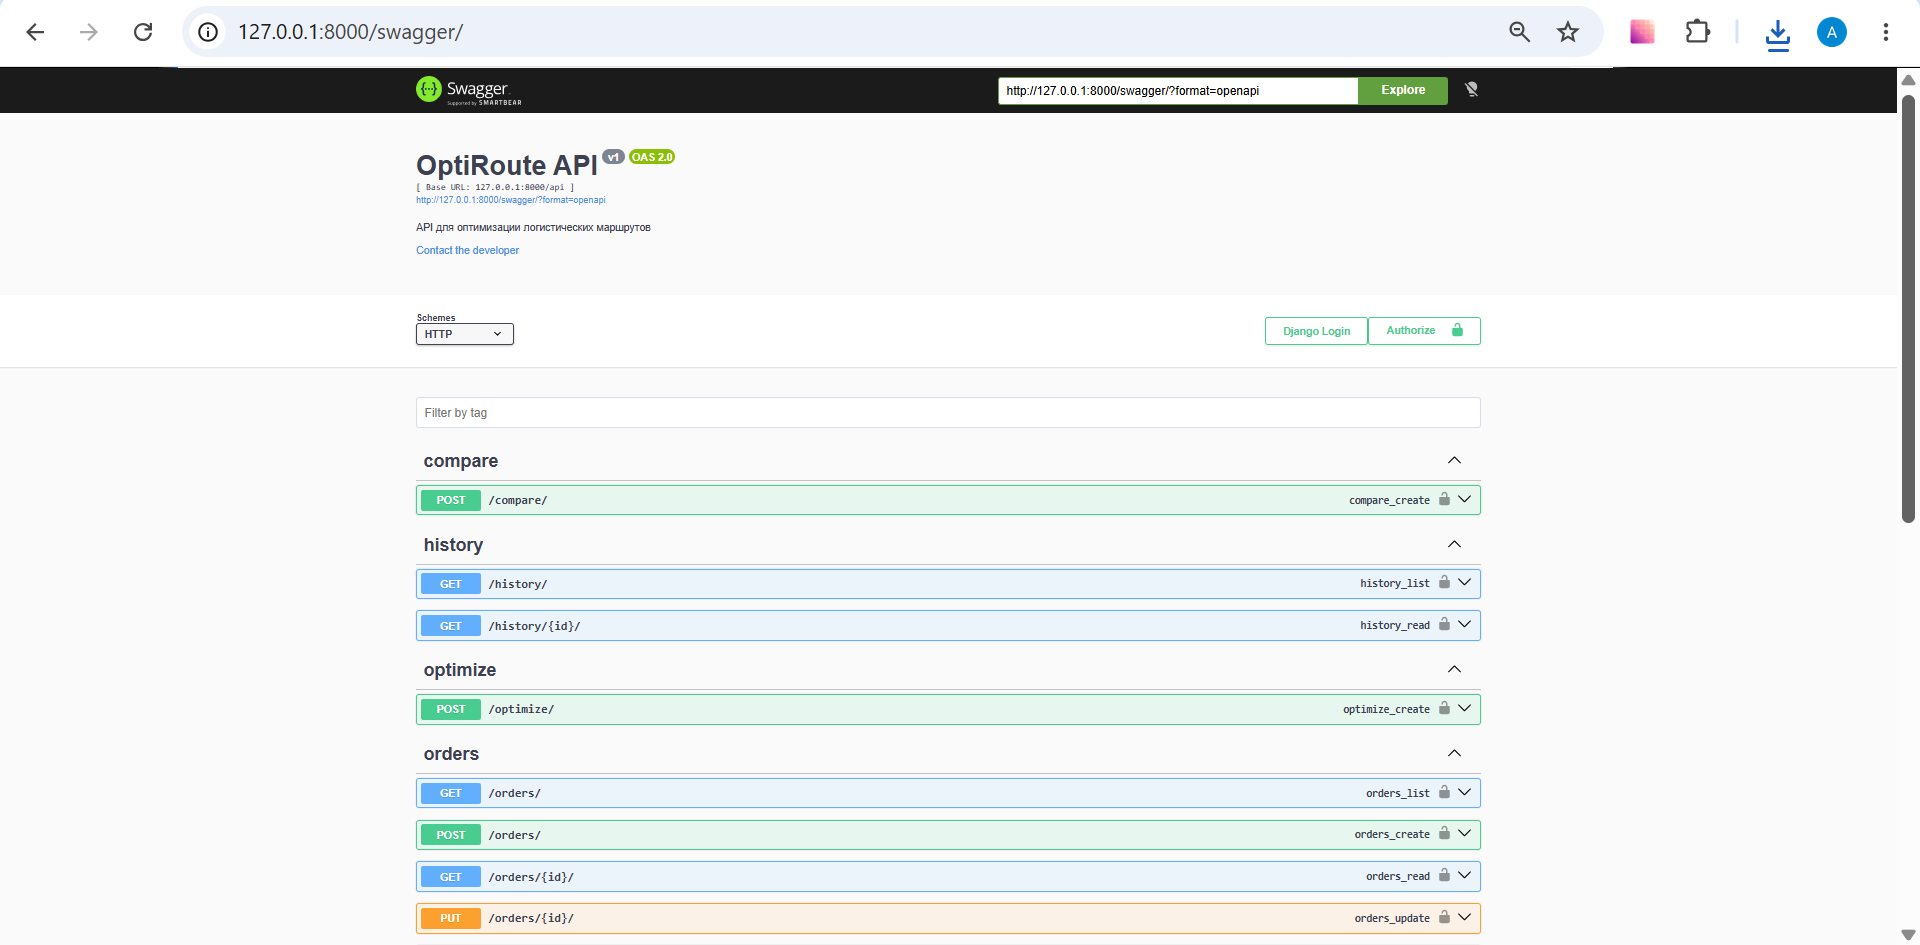
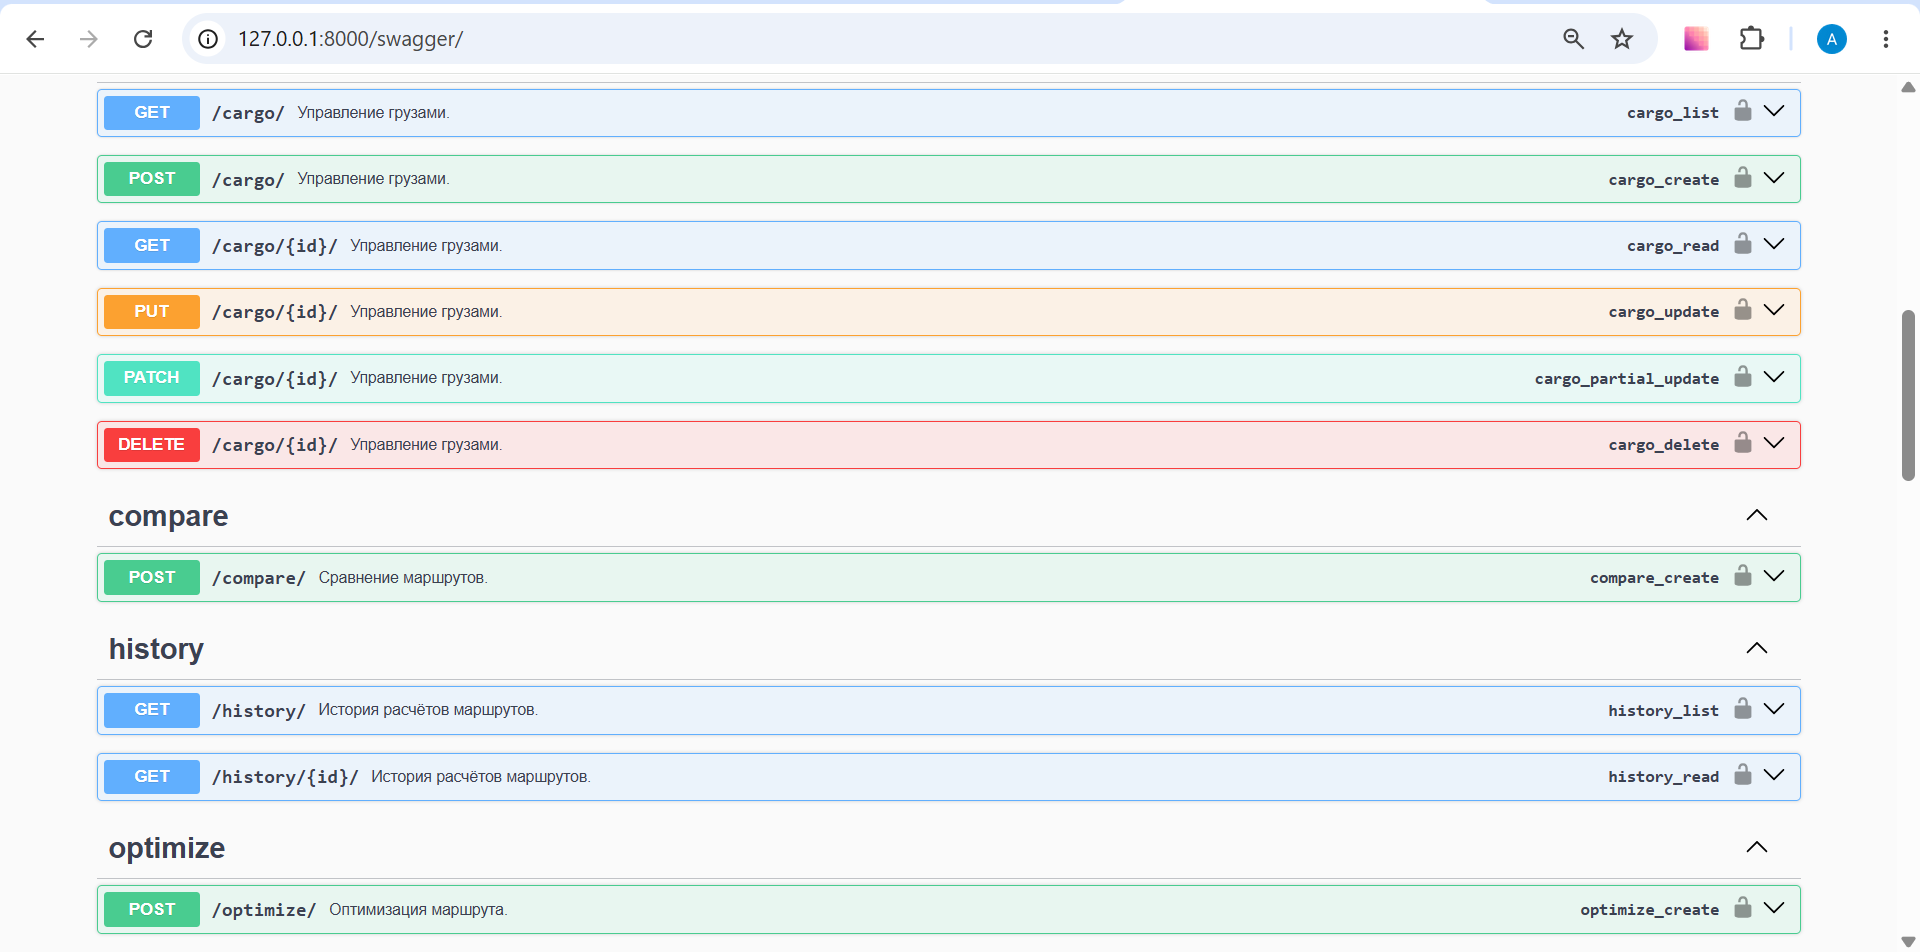
docs: enhance Swagger documentation with detailed descriptions and examples, add Swagger screenshots to README

diff --git a/routes/api_views.py b/routes/api_views.py
@@ -13,19 +13,38 @@ import random
 
 
 class TestAPIView(APIView):
-    """Тестовый API для проверки авторизации"""
+    """
+    Тестовый API для проверки авторизации.
+    
+    GET /api/test/ - возвращает статус и данные пользователя.
+    Используется для проверки работоспособности JWT-токена.
+    """
     permission_classes = [IsAuthenticated]
 
     def get(self, request):
         return Response({
             'status': 'ok',
-            'message': 'Вы успешно авторизованы!',
+            'message': 'Вы успешно авторизованы',
             'user': request.user.username
         })
 
 
 class OrderViewSet(viewsets.ModelViewSet):
-    """API для управления заказами"""
+    """
+    Управление заказами.
+    
+    Получение списка заказов, создание нового, редактирование и удаление.
+    
+    Для клиентов (роль 'client') возвращаются только их заказы.
+    Для остальных ролей - все заказы.
+    
+    GET /api/orders/ - список заказов
+    POST /api/orders/ - создание заказа
+    GET /api/orders/{id}/ - детали заказа
+    PUT /api/orders/{id}/ - полное обновление
+    PATCH /api/orders/{id}/ - частичное обновление
+    DELETE /api/orders/{id}/ - удаление
+    """
     queryset = Order.objects.select_related('client', 'cargo', 'vehicle').prefetch_related('history_routes')
     serializer_class = OrderSerializer
     permission_classes = [IsAuthenticated]
@@ -38,14 +57,24 @@ class OrderViewSet(viewsets.ModelViewSet):
 
 
 class RouteViewSet(viewsets.ReadOnlyModelViewSet):
-    """API для просмотра маршрутов"""
+    """
+    Просмотр маршрутов.
+    
+    GET /api/routes/ - список всех маршрутов
+    GET /api/routes/{id}/ - детали конкретного маршрута
+    """
     queryset = Route.objects.select_related('order', 'vehicle').prefetch_related('order__client')
     serializer_class = RouteSerializer
     permission_classes = [IsAuthenticated]
 
 
 class RouteHistoryViewSet(viewsets.ReadOnlyModelViewSet):
-    """API для истории маршрутов"""
+    """
+    История расчётов маршрутов.
+    
+    GET /api/history/ - список всех расчётов
+    GET /api/history/?order_id={id} - фильтрация по заказу
+    """
     queryset = RouteHistory.objects.select_related('order')
     serializer_class = RouteHistorySerializer
     permission_classes = [IsAuthenticated]
@@ -58,21 +87,65 @@ class RouteHistoryViewSet(viewsets.ReadOnlyModelViewSet):
 
 
 class VehicleViewSet(viewsets.ModelViewSet):
-    """API для управления транспортом"""
+    """
+    Управление транспортными средствами.
+    
+    GET /api/vehicles/ - список транспорта
+    POST /api/vehicles/ - добавление нового ТС
+    GET /api/vehicles/{id}/ - детали ТС
+    PUT /api/vehicles/{id}/ - редактирование
+    DELETE /api/vehicles/{id}/ - удаление
+    """
     queryset = Vehicle.objects.all()
     serializer_class = VehicleSerializer
     permission_classes = [IsAuthenticated]
 
 
 class CargoViewSet(viewsets.ModelViewSet):
-    """API для управления грузами"""
+    """
+    Управление грузами.
+    
+    GET /api/cargo/ - список грузов
+    POST /api/cargo/ - добавление нового груза
+    GET /api/cargo/{id}/ - детали груза
+    """
     queryset = Cargo.objects.all()
     serializer_class = CargoSerializer
     permission_classes = [IsAuthenticated]
 
 
 class OptimizeAPIView(APIView):
-    """API для оптимизации маршрута"""
+    """
+    Оптимизация маршрута.
+    
+    Принимает ID заказа и опционально обновлённые адреса.
+    Возвращает оптимизированный маршрут и расстояние.
+    
+    Алгоритм:
+    1. Фиксирует первую точку (загрузка) и последнюю (доставка)
+    2. Оптимизирует порядок промежуточных точек
+    3. Рассчитывает расстояния через Яндекс.Геокодер
+    
+    Пример тела запроса:
+    {
+        "order_id": 1,
+        "pickup_address": "Москва, ул. Тверская, 1",
+        "delivery_address": "Санкт-Петербург, Невский пр., 50",
+        "waypoints": ["Тверь, ул. Революции, 12"]
+    }
+    
+    Пример ответа:
+    {
+        "status": "success",
+        "route_id": 5,
+        "total_distance": 712.5,
+        "optimized_order": ["Москва", "Тверь", "Санкт-Петербург"],
+        "algorithm": "genetic",
+        "points_count": 3,
+        "economy_percent": 0,
+        "calculation_time_ms": 125.3
+    }
+    """
     permission_classes = [IsAuthenticated]
 
     def post(self, request):
@@ -137,7 +210,31 @@ class OptimizeAPIView(APIView):
 
 
 class CompareAPIView(APIView):
-    """API для сравнения обычного и оптимизированного маршрута"""
+    """
+    Сравнение маршрутов.
+    
+    Сравнивает обычный маршрут (по порядку ввода) и оптимизированный.
+    Возвращает экономию в километрах, процентах и рублях.
+    
+    Пример тела запроса:
+    {
+        "order_id": 1,
+        "pickup_address": "Москва, ул. Тверская, 1",
+        "delivery_address": "Санкт-Петербург, Невский пр., 50",
+        "waypoints": ["Тверь, ул. Революции, 12"]
+    }
+    
+    Пример ответа:
+    {
+        "naive_order": ["Москва", "Тверь", "Санкт-Петербург"],
+        "naive_distance": 850.3,
+        "optimized_order": ["Москва", "Тверь", "Санкт-Петербург"],
+        "optimized_distance": 712.5,
+        "economy_km": 137.8,
+        "economy_percent": 16.2,
+        "fuel_saved_rub": 6890.0
+    }
+    """
     permission_classes = [IsAuthenticated]
 
     def post(self, request):

diff --git a/logistics_system/urls.py b/logistics_system/urls.py
@@ -6,25 +6,50 @@ from rest_framework import permissions
 from drf_yasg.views import get_schema_view
 from drf_yasg import openapi
 
+# Swagger/OpenAPI конфигурация
 schema_view = get_schema_view(
     openapi.Info(
         title="OptiRoute API",
-        default_version='v1',
-        description="API для оптимизации логистических маршрутов",
-        contact=openapi.Contact(email="support@optiroute.com"),
+        default_version="v1.0",
+        description="""
+API для логистической платформы OptiRoute.
+
+Основные возможности:
+- Управление заказами, транспортом и грузами
+- Оптимизация маршрутов с помощью генетического алгоритма
+- Сравнение обычного и оптимизированного маршрута
+- История расчётов
+
+Аутентификация:
+Для доступа к API требуется JWT-токен.
+1. Получите токен через POST /api/token/
+2. Используйте его в заголовке: Authorization: Bearer <token>
+
+Алгоритм оптимизации:
+Генетический алгоритм фиксирует первую и последнюю точки маршрута (загрузка и доставка) 
+и находит оптимальный порядок промежуточных точек. Расстояния рассчитываются через Яндекс.Геокодер.
+        """,
+        terms_of_service="https://github.com/nettbliss/logistics-ai",
+        contact=openapi.Contact(
+            name="OptiRoute Support",
+            email="support@optiroute.com",
+            url="https://github.com/nettbliss/logistics-ai"
+        ),
+        license=openapi.License(
+            name="MIT License",
+            url="https://opensource.org/licenses/MIT"
+        ),
     ),
     public=True,
-    permission_classes=(permissions.AllowAny,),
+    permission_classes=[permissions.AllowAny],
 )
 
 urlpatterns = [
     path('admin/', admin.site.urls),
-    path('', include('routes.urls')),
-    path('documents/', include('documents.urls')),
-    
-    # Swagger
     path('swagger/', schema_view.with_ui('swagger', cache_timeout=0), name='schema-swagger-ui'),
+    path('swagger.json', schema_view.without_ui(cache_timeout=0), name='schema-json'),
     path('redoc/', schema_view.with_ui('redoc', cache_timeout=0), name='schema-redoc'),
+    path('', include('routes.urls')),
 ]
 
 if settings.DEBUG:

diff --git a/routes/serializers.py b/routes/serializers.py
@@ -1,10 +1,24 @@
-# routes/serializers.py
 from rest_framework import serializers
 from .models import Route
 from core.models import Order, RouteHistory, Vehicle, Cargo
 
 
 class OrderSerializer(serializers.ModelSerializer):
+    """
+    Сериализатор для заказов.
+    
+    Пример создания заказа:
+    {
+        "order_number": "ORD-001",
+        "client": 1,
+        "cargo": 1,
+        "vehicle": 1,
+        "pickup_address": "Москва, ул. Тверская, 1",
+        "delivery_address": "Санкт-Петербург, Невский пр., 50",
+        "waypoints": ["Тверь, ул. Революции, 12"],
+        "status": "pending"
+    }
+    """
     class Meta:
         model = Order
         fields = '__all__'
@@ -12,6 +26,11 @@ class OrderSerializer(serializers.ModelSerializer):
 
 
 class RouteSerializer(serializers.ModelSerializer):
+    """
+    Сериализатор для маршрутов.
+    
+    Ответ содержит оптимизированный порядок точек и параметры маршрута.
+    """
     order_number = serializers.CharField(source='order.order_number', read_only=True)
     
     class Meta:
@@ -21,6 +40,9 @@ class RouteSerializer(serializers.ModelSerializer):
 
 
 class RouteHistorySerializer(serializers.ModelSerializer):
+    """
+    Сериализатор для истории расчётов.
+    """
     order_number = serializers.CharField(source='order.order_number', read_only=True)
     
     class Meta:
@@ -30,12 +52,36 @@ class RouteHistorySerializer(serializers.ModelSerializer):
 
 
 class VehicleSerializer(serializers.ModelSerializer):
+    """
+    Сериализатор для транспортных средств.
+    
+    Пример добавления ТС:
+    {
+        "license_plate": "A123BC",
+        "type": "truck",
+        "capacity_kg": 5000,
+        "fuel_consumption": 25.5,
+        "is_active": true
+    }
+    """
     class Meta:
         model = Vehicle
         fields = '__all__'
 
 
 class CargoSerializer(serializers.ModelSerializer):
+    """
+    Сериализатор для грузов.
+    
+    Пример добавления груза:
+    {
+        "name": "Строительные материалы",
+        "weight_kg": 1500,
+        "volume_m3": 4.5,
+        "is_hazardous": false,
+        "requires_temperature": false
+    }
+    """
     class Meta:
         model = Cargo
         fields = '__all__'

diff --git a/README.md b/README.md
@@ -37,9 +37,23 @@ _Сравнение маршрутов: экономия в километрах
 
 _Путевой лист в формате PDF_
 
-![Swagger документация](screenshots/5.png)
+## Swagger документация
 
-_Документация API через Swagger_
+![Swagger документация - общий вид](screenshots/5,0.png)
+
+_Общий вид документации API_
+
+![Swagger документация - эндпоинты](screenshots/5.png)
+
+_Список эндпоинтов_
+
+![Swagger документация - эндпоинты](screenshots/5,1.png)
+
+_Список эндпоинтов_
+
+![Swagger документация - пример запроса](screenshots/5,2.png)
+
+_Пример запроса_
 
 ## Технологии
 
